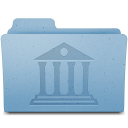
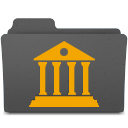
Update to images & download Link

diff --git a/README.md b/README.md
@@ -12,7 +12,7 @@ Save all the Internets!
 
 ### Installation
 
-Download the CRX [here](https://mega.co.nz/#!yAh2Ab7T!l191P96pxI0oSeP1ByL8xEO8O7OkX5aXFSTGaDwxtug)
+Download the CRX [here](https://mega.nz/#!qZwQyJSR!QFuvXoa7n52MnIKEUzcABl8Ry0b5g0sPm-Drf3T8Ef4)
 
 To install the Chrome extension:
 
